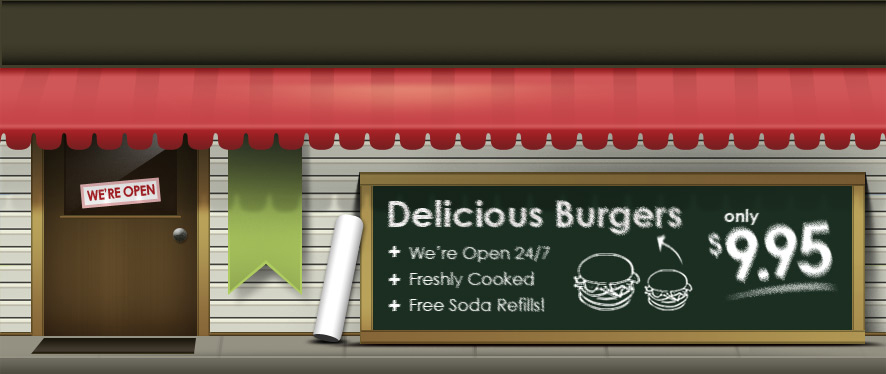
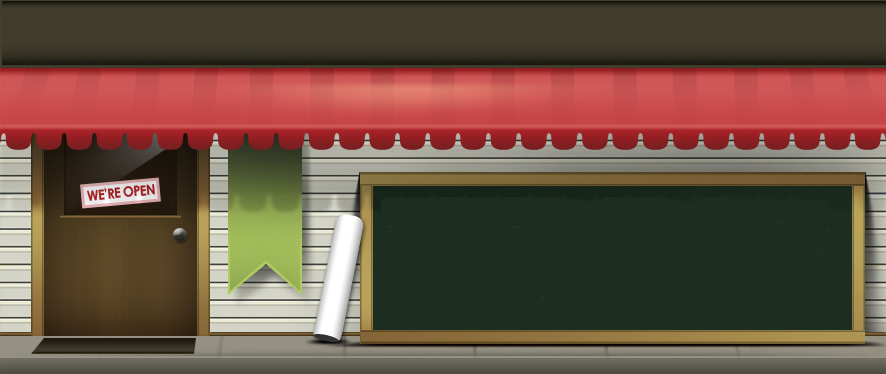
в models.py добавлена модель таблицы Specials - действующие акции, в Product добавлен поле specials  с первичным ключом, откорректирован базовый шаблон и шаблон главной станицы

diff --git a/templates/shop/main.html b/templates/shop/main.html
@@ -13,13 +13,10 @@
 				<div class="block">
 					<div class="block-top"></div>
 					<div class="block-content">
-						<h2>Welcome to the <span>DelliStore!</span></h2>
+						<h2>Добро пожаловать в <span>{{ greeting.shop_name }}!</span></h2>
 							<p>
-								<img class="cake" src="img/img-cake.jpg" alt="Cake" />
-								liquam suscipit. <strong>Integer justo</strong> erat, bibendum sed, lacinia eu, tristique condimentum, magna. Aliquam augue dolor,
-                                tempus sit amet, pharetra nec, blandit elementum, diam. Proin pharetra odio eu lectus sollicitudin ultricies. Suspend<br />
-								isse turpis. Lorem ipsum dolor sit amet, consectetur adipiscing elit. Suspendisse potenti.</p>
-						<a class="yellow-button" href="#"><span>Learn More</span></a>
+								{{ greeting.greeting_text }}
+							</p>
 					</div>
 					<div class="block-bottom"></div>
 				</div>
@@ -28,7 +25,7 @@
 				<div class="block">
 					<div class="block-top"></div>
 					<div class="block-content">
-						<h3>Our <span>Specials!</span></h3>
+						<h3>Наши <span>Акции!</span></h3>
 						<ul>
 							<li><a href="#">Burger</a><strong>$4.99</strong></li>
 							<li><a href="#">Chicken Wings</a><strong>$5.99</strong></li>

diff --git a/templates/shop/about.html b/templates/shop/about.html
@@ -38,24 +38,12 @@
 	<div class="block">
 		<div class="block-top"></div>
 		<div class="block-content">
-			<h3>The <span>Store!</span></h3>
-			<ul>
-				<li><a href="#">The History</a></li>
-				<li><a href="#">Meet The Staff</a></li>
-				<li><a href="#">Contacting Us</a></li>
-			</ul>
-		</div>
-		<div class="block-bottom"></div>
-	</div>
-	<div class="block">
-		<div class="block-top"></div>
-		<div class="block-content">
-			<h3><span>Sign Up!</span></h3>
+			<h3><span>Регистрация</span></h3>
 			<form id="signup-form" action="#">
 				<fieldset>
-					<label>Email Address</label>
+					<label>Электронная почта</label>
 					<input type="text" />
-					<input class="submit" type="submit" value="Sing Up!" />
+					<input class="submit" type="submit" value="Регистрация!" />
 				</fieldset>
 			</form>
 		</div>

diff --git a/templates/shop/base/base.html b/templates/shop/base/base.html
@@ -30,10 +30,10 @@
 		<div id="footer">
 			<p>©2009 The DelliStore. Design by <a href="http://www.dellustrations.com/templates.html">Dellustrations.com</a> for <a href="http://www.smashingmagazine.com">Smashing Magazine</a></p>
 			<ul>
-				<li><a href="index.html">Home</a></li>
-				<li><a href="about.html">About Us</a></li>
-				<li><a href="services.html">Services </a></li>
-				<li><a href="contact.html">Contact us</a></li>
+				<li><a href="{% url 'index' %}">Главная</a></li>
+				<li><a href="{% url 'about' %}">О нас</a></li>
+				<li><a href="{% url 'products' %}">Продукция</a></li>
+				<li><a href="{% url 'contacts' %}">Контакты</a></li>
 			</ul>
 		</div>
 	</div>

diff --git a/static/shop/css/all.css b/static/shop/css/all.css
@@ -36,8 +36,14 @@ h1  a{
 	float:left;
 	background:url(../img/bg-logo.png) no-repeat 0 0;
 	text-indent:-9999px;
-	overflow:hidden;
+	overflow: hidden;
 }
+
+#shop_name {
+   color: #A4C0A8;
+}
+
+
 
 /* navigation */
 
@@ -345,7 +351,7 @@ h1  a{
 	width:155px;
 }
 #signup-form input.submit{
-	width:72px;
+	width:100px;
 	margin:7px 0 0;
 	padding:0 0 1px;
 	background:url(../img/bg-submit-signup.png) no-repeat 0 0;

diff --git a/models.py b/models.py
@@ -1,6 +1,7 @@
 from django.db import models
 from django.urls import reverse
 
+
 class Category(models.Model):
     name = models.CharField(max_length=200, db_index=True, verbose_name='категория')
     slug = models.SlugField(max_length=200, db_index=True, unique=True, verbose_name='слаг')
@@ -17,7 +18,21 @@ class Category(models.Model):
         return reverse('shop:by_category_slug', args=[self.slug])
 
 
+class Specials(models.Model):
+    special_name = models.CharField(max_length=100, verbose_name='название акции')
+    special_activate = models.BooleanField(verbose_name='активация акции', blank=True)
+
+    class Meta:
+        verbose_name = 'Акция'
+        verbose_name_plural = 'Акции'
+
+    def __str__(self):
+        return self.special_name
+
+
 class Product(models.Model):
+    special = models.ForeignKey(Specials, verbose_name='Акционный товар', on_delete=models.CASCADE,
+                                related_name='special', null=True)
     category = models.ForeignKey(Category, related_name='products', on_delete=models.CASCADE, verbose_name='категория')
     name = models.CharField(max_length=200, db_index=True, verbose_name='название')
     slug = models.SlugField(max_length=200, db_index=True, verbose_name='слаг')
@@ -52,3 +67,17 @@ class ShopLogo(models.Model):
 
     def __str__(self):
         return self.company_name
+
+
+class GreetingText(models.Model):
+    shop_name = models.CharField(max_length=100, verbose_name='название магазина')
+    greeting_text = models.TextField(verbose_name='текст приветствия')
+
+    class Meta:
+        verbose_name = 'Текст приветствия'
+        verbose_name_plural = 'Тексты приветствия'
+
+    def __str__(self):
+        return self.shop_name
+
+

diff --git a/admin.py b/admin.py
@@ -1,6 +1,10 @@
 from django.contrib import admin
 
-from .models import Category, Product, ShopLogo
+from .models import Category, Product, ShopLogo, GreetingText, Specials
+
+
+class GreetingTextAdmin(admin.ModelAdmin):
+    list_display = ['shop_name', 'greeting_text']
 
 
 class ShopLogoAdmin(admin.ModelAdmin):
@@ -19,6 +23,12 @@ class ProductAdmin(admin.ModelAdmin):
     prepopulated_fields = {'slug': ('name',)}
 
 
+class SpecialAdmin(admin.ModelAdmin):
+    list_display = ['special_name', 'special_activate']
+
+
 admin.site.register(ShopLogo, ShopLogoAdmin)
 admin.site.register(Category, CategoryAdmin)
 admin.site.register(Product, ProductAdmin)
+admin.site.register(GreetingText, GreetingTextAdmin)
+admin.site.register(Specials, SpecialAdmin)

diff --git a/views.py b/views.py
@@ -1,10 +1,15 @@
 from django.shortcuts import render, get_object_or_404
-from .models import Category, Product, ShopLogo
+from .models import Category, Product, ShopLogo, GreetingText
 from django.views.generic import ListView, DetailView, TemplateView
 
 
 class MainView(TemplateView):
     template_name = 'shop/main.html'
+
+    def get_context_data(self, **kwargs):
+        context = super().get_context_data()
+        context['greeting'] = GreetingText.objects.first()
+        return context
 
 
 class AllProductListView(ListView):
